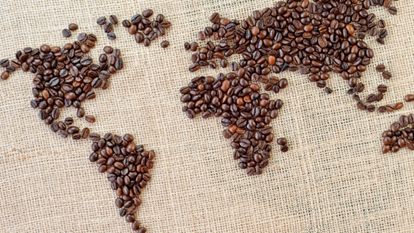
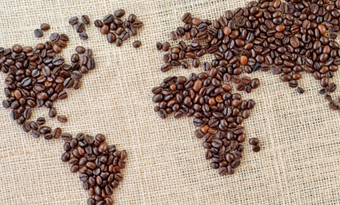
updated picture sizing styled class page2- origin

diff --git a/style.css b/style.css
@@ -3,41 +3,49 @@
  }
  .header {
     z-index: 1;
-    border: dotted red 5px;
     text-align: center;;
     height: 150px;
+    font-size: 30px;
+    border: black solid 2px;
+    
     
  }
  .navbar div {
     display: flex;
     z-index: 2;
-    border: dotted red 5px;
     width: 1245px;
     height: 75px;
     justify-content: center;
     margin: auto;
     padding: 10px;
+    border: black solid 2px;
+    
  }
 .page1 {
     display: flex;
     justify-content: center;
     justify-content: space-around;
-    border: dotted red 5px;
-    padding-top: 55px;
-    margin-left: 110px;
-    margin-right:110px;
+    padding-top: 75px;
 }
-.usa {
-    width: 100%;
-    height: 120%;
-    
+#origin {
+    display: flex;
+    justify-content: center;
+    padding-top: 30px;
+    padding-bottom: 30px;
+    font-size: 50px;
 }
-.types {
-    width: 100%;
-    height: 120%;
+.history {
+    height: 300px;
+    padding-left: 100px
 }
-.brewing {
-    width: 100%;
-    height: 120%;
+.origin {
+    padding-right: 100px;
+    padding-left: ;
+    display: flex;
 }
+.phistory {
+    padding-left: 20px;
+    font-size: 19px;
+}
+
 

diff --git a/index.html b/index.html
@@ -49,8 +49,12 @@
       <section class="page2">
         <div id="origin">Origin</div>
         <div class="origin">
-          <img src="./Images/pic1-origin.jpg" alt="coffee beans in two hands" />
-          <article>
+          <img
+            src="./Images/pic1-origin.jpg"
+            alt="coffee beans in two hands"
+            class="history"
+          />
+          <article class="phistory">
             <p>
               Coffee grown worldwide can trace its heritage back centuries to
               the ancient coffee forests on the Ethiopian plateau. There, legend
